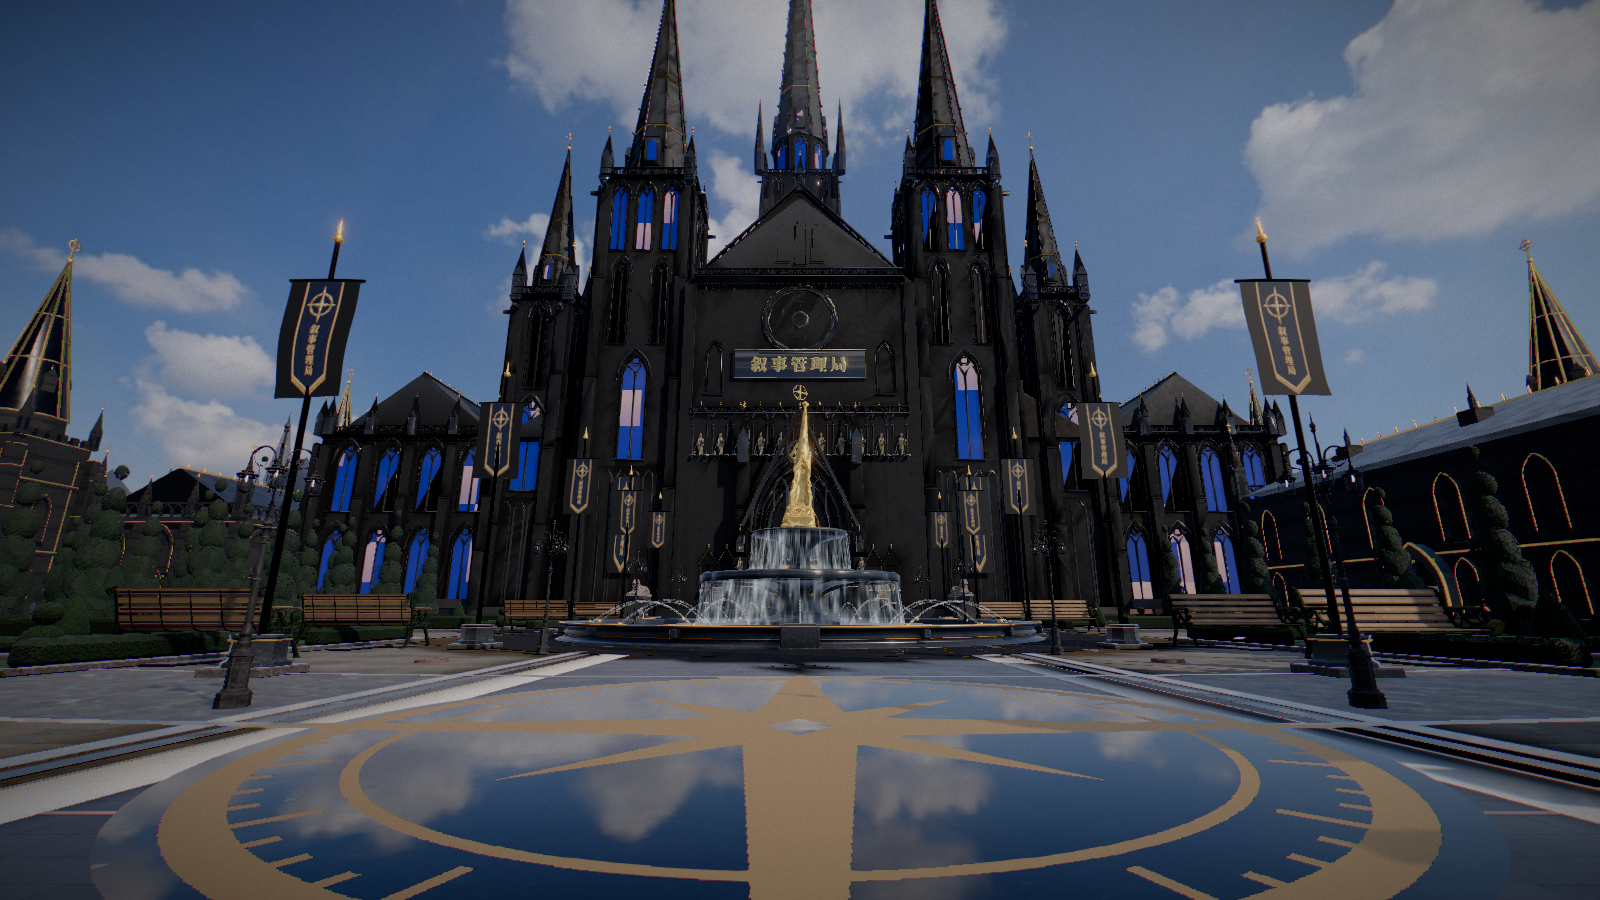
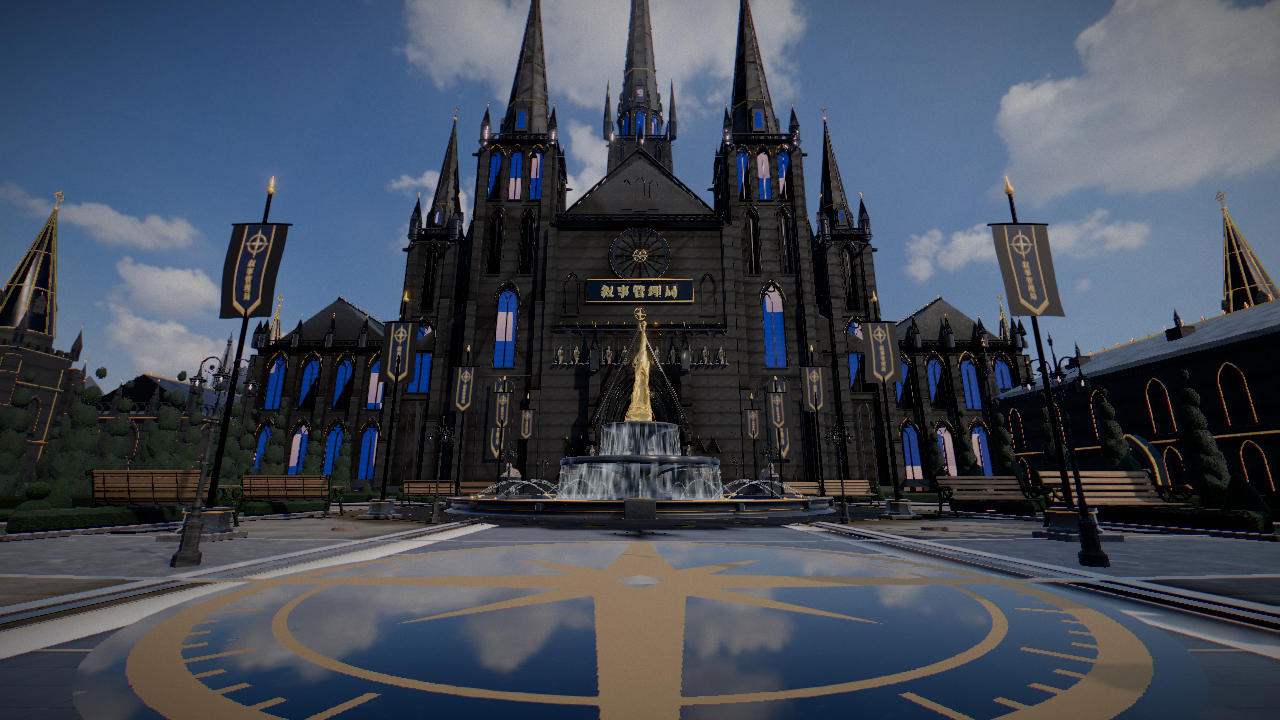
R3 批次9 收尾：HANDOFF 批次9 说明（LOD 根因=prune 删 UV、玫瑰窗锁定、局徽 noCull、metro 4.72M、r3plan 复查 0 错误、余力项、诚实评估与遗留）；plaza（局徽修复后）/ plaza_aerial 截图入库

diff --git a/docs/HANDOFF.md b/docs/HANDOFF.md
@@ -171,6 +171,28 @@
 3. plaza / facade 高画质截图贴着内存上限：可考虑截图模式上传后释放贴图 CPU 端图片，或先拍低一档画质。
 4. tristat.mjs 拆 pass 会让 plaza 崩，测 plaza 时只用截图会话的整帧统计。
 
+## R3 批次9（2026-10-30 11:16 CST 接手）
+### 完成
+1. **远景主楼 LOD 变黑 = 根因找到并修复**（commit 12197f5）：`tools/facade_lod.mjs` 和 `facade_lod_fixn.mjs` 末尾的 `prune()`（gltf-transform 新版默认 keepAttributes=false）会删掉「材质没引用贴图」的顶点属性——hero GLB 里的材质本来就没贴图（three 端 placeHero 按材质名换成 extMats 的 PBR 材质），于是 **TEXCOORD_0 被整组删掉**，lo 的砌块 / 风化 / 金属贴图全部采样 (0,0) 单像素 → 远景发黑、砌缝消失；`dedup()` 还把 marbleDark 合并成 marble。批次8 怀疑的法线 / AO 不是主因。检查工具 `tools/_insp.mjs`（列每个网格的属性，lo 少了 TEXCOORD_0 一眼可见）。
+   - 新 `tools/facade_lod2.mjs`：`simplifyWithAttributes`（UV 权重 3、法线 0.15）+ Permissive；**玫瑰窗球形区（世界坐标 (0,39.4,−5.5) r 5.2）顶点锁定**——窗花在 F_trim 里（2.6 万面），普通塌边后只剩 457 面 → 窗花消失，锁定后 25420 面保留；`prune({keepAttributes:true})` + dedup 不合并材质。fixn 同修。用法：`RT=0.1 RG=0.2 UVW=3 PERM=1 node tools/facade_lod2.mjs public/assets/hero/hero_facade.glb /tmp/lo.glb && node tools/facade_lod_fixn.mjs /tmp/lo.glb public/assets/hero/hero_facade_lo.glb public/assets/hero/hero_facade.glb`。lo 32.3 万 → 37.3 万面。UV 拉伸检查 `tools/_uvchk.mjs`（F_trim 28%、F_gold 14% 面积 texel 密度偏离 >2 倍，花岗岩/金属噪声贴图远看不明显）；区域面数 `tools/_region.mjs`。批次8 lo 备份 work/r3/b9/hero_facade_lo.b8.glb。
+   - 玫瑰窗中心金色局徽（three 程序化 emblem，半径 1.05 m）被批次8 的 DistCull（r<1.5 → 60 m）剔掉，plaza 主机位（约 80 m）看不到 → exterior.js 给玫瑰窗局徽、门楣局徽设 `userData.noCull`。
+   - `?lodNear=90` 对照：plaza 全 hi 在 7.8 GB 云电脑上整帧黑屏（着色器链接失败/内存，和批次8 lodNear=200 同症），只能拿批次7 全 hi 截图 work/r3/before8/plaza_b7.png 做参照。
+2. **metro_r3 整帧 5.27M → 4.72M**（commit 8ad920d）：同屏大头是实例化小件，street_lamp_02 / bollard / military_crate / r2/park_bench / r2/potted_plant_04 再减面（原件 work/models_pre_b9/）。tristat 结果 work/r3/b9/ts_metro_r3_{before,after}.json。
+3. **批次8 改动区 r3plan 复查**（commit 7c2f889）：training / metro / abyss_core / abyss_tide / s7_entry / archive / canteen / medical / b1 / b2 / b4 全部 0 错误；B2 power_box_01 贴墙。俯视图 screenshots/r3/plan_<区>.png。
+4. **余力**（commit b6265d1）：岗哨陈设+灯光；训练场提亮；定稿厅主机位南口补 2 席校对台 + 烛台（r3plan.js 末尾 `X9`，同 X8 包装方式）。
+### 截图 / 对比图
+- screenshots/r3/ 覆盖：plaza（局徽修复后重拍，1280×720）、plaza_aerial（新增，r3 目录此前无此机位）、facade、memorial、metro_r3、metro_b、wall_post、training_r3/_b/_range、abyss_core/_b、plan_*.png（11 张）。批次9 工作副本 work/r3/b9/s9a…s9d/。
+- 对比图：work/r3/cmp9_lod.jpg（批次7 全 hi / 批次8 旧 lo / 批次9 新 lo，含玫瑰窗与塔身放大）、cmp9_metro.jpg、cmp9_extras.jpg（岗哨/训练场/定稿厅）。脚本 work/r3/b9/cmp9.py（多列、可裁剪放大）。
+- 云电脑脚本：work/r3/b9/rs9.sh（W/H 可调的 rshotx）；本批用 aa/bb/cc/dd（zz 未用），结束已全部 ssh-token --revoke、本地 .ibtok_* 已删。
+### 诚实评估
+- LOD：远景主楼恢复了砌块纹理、亮度和玫瑰窗窗花，和批次7 全 hi 基本一致；仍有差距——小尖塔/线脚轮廓更粗（F_trim 8→10% 面数），塔身窗花（非玫瑰窗）仍是简化后的，亮度比全 hi 略高一点（AO 增益）。
+- metro 达标 4.72M，但只是小件减面；外景 exterior 主视 1.13M 未动。
+- 岗哨：从「全黑空亭」变成能读出值班室的陈设；门外仍偏暗，岗亭外墙本身是程序化盒子。训练场亮度明显提高，但依旧是大面积深色地坪 + 点光，没有烘焙。定稿厅主机位多了前景校对席和烛台，但视野主体仍是巨柱和巨书。
+### 遗留
+1. plaza 高画质截图仍贴着 7.8 GB 内存上限；全 hi（lodNear≥90）对照在云电脑上出不了图。
+2. 塔身其他窗花若要保留，可在 facade_lod2.mjs 的 LOCK 里加球形区（会增加面数）。
+3. 外景 exterior 在 metro 视角主视 1.13M（城景块），下一步可加距离剔除。
+
 ---
 # HANDOFF · R2 美术重建（blender-lead-2，接手 2026-10-29 19:08 CST）
 崩溃后接续：从「R2 当前进度」最后一条往下做。旧 M7 交接记录保留在文末。
